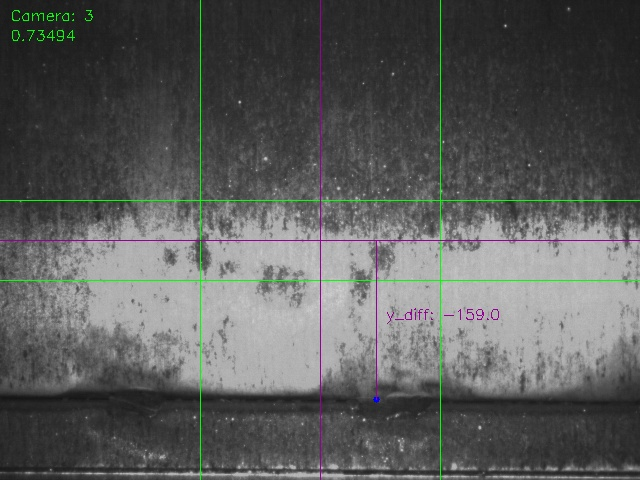
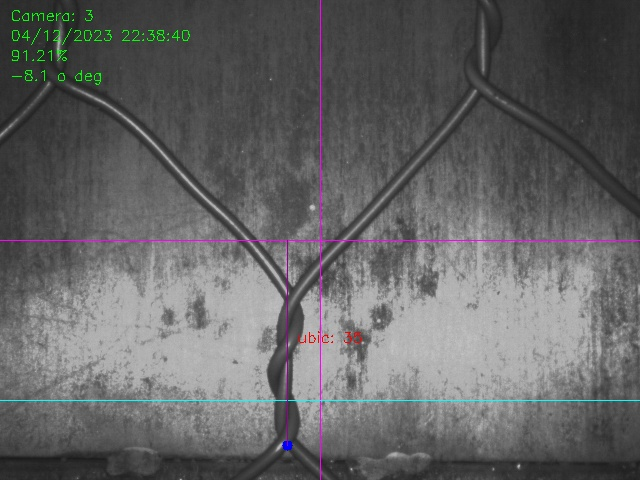
MAtriz de imagenes y simplificacion generacion de imagens

diff --git a/apps/static/assets/js/plc-app.js b/apps/static/assets/js/plc-app.js
@@ -129,6 +129,8 @@ document.addEventListener("DOMContentLoaded", function() {
                 console.log(`Status: ${data.status}`);
                 console.log(`Error: ${data.error}`);
                 console.log(`New Point: ${data.new_point}`);
+                // Navegate through result_cam
+                
             })
             .catch(error => console.error(error));
         });

diff --git a/apps/plc_app.py b/apps/plc_app.py
@@ -25,7 +25,7 @@ class AlambresWebApp:
         # Connection
         try:
             self.connect_cameras()
-            # self.connect_plc()
+            self.connect_plc()
         except RuntimeError as e:
             print("Error: ", e)
 
@@ -112,6 +112,12 @@ class AlambresWebApp:
         
         print(cam_list)
 
+    def eliminar_outliers(self, lista, num_desviaciones=2):
+        media = sum(lista) / len(lista)
+        desviacion_estandar = (sum((x - media) ** 2 for x in lista) / len(lista)) ** 0.5
+        return [x for x in lista if abs(x - media) <= num_desviaciones * desviacion_estandar]
+
+    
     def detection_execution(self, app):
         """Return: {'new_point': new_point, 'error': error_mm, 'imagen': encoded_image}}"""
         # Execute detection
@@ -133,7 +139,7 @@ class AlambresWebApp:
         cameras = self.config[app]['cameras']
         differences = []
         for index in cam_list:
-            print(f"\t-> Camera {index}:")
+            print(f"\t-> Camera {index}:", end=" ")
             name = f"cam{index:02d}"
             # Get the camera dictionarie from the selected app by name
             cam = [cam for cam in cameras if cam['name'] == name][0]
@@ -151,17 +157,17 @@ class AlambresWebApp:
             # Get the result from the result_list by index
             result = result_list[index] 
             if result[0] == 0:
-                if abs(result[1]['y'] - set_point) <= 20:
+                if abs(result[1]['y'] - set_point) <= 25:
                     diff = 0
                     differences.append(diff)
                     continue
                  
                 if result[1]['y'] > set_point:
                     diff = result[1]['y'] - set_point
-                    print(f"\t-> Operation: {diff} = {result[1]['y']} - {set_point}")
+                    print(f"\t\t-> Operation: {diff} = {result[1]['y']} - {set_point}")
                 elif result[1]['y'] < set_point:
                     diff =  result[1]['y'] + self.config[app]['nudo']/self.config['scale']['pix2mm'] - set_point
-                    print(f"\t-> Operation: {diff} = {result[1]['y']} + {self.config[app]['nudo']/self.config['scale']['pix2mm']} - {set_point}")    
+                    print(f"\t\t-> Operation: {diff} = {result[1]['y']} + {self.config[app]['nudo']/self.config['scale']['pix2mm']} - {set_point}")    
                 # Differences
                 result_list[index][1]['diff'] = diff
                 differences.append(diff)
@@ -170,6 +176,9 @@ class AlambresWebApp:
         
 
         # Process differences
+        differences = self.eliminar_outliers(differences)
+        print(f"\t-> Differences out: {differences}")
+        # Calculate error   
         error = sum(differences)/len(differences) if len(differences) > 0 else 0
         error_mm = error * self.config['scale']['pix2mm']
         new_point = self.plc_client.plc_struct['PV_POS'] + error_mm/10
@@ -182,15 +191,12 @@ class AlambresWebApp:
         jpg_images = self.image_manager.proc_image(jpg_images, result_list)
         img_path = os.path.join(os.path.dirname(__file__), r'lib/img')
         self.image_manager.save_images(jpg_images, path=img_path)
-        jpg_images = []
-        for i in range(4):
-            with open(img_path + f"/img_{i}.jpg", "rb") as f:
-                jpg_images.append(f.read())
-
-        image_data = jpg_images[0]
+        self.image_manager.save_image(jpg_images, path=img_path)
+        
+        with open(img_path + f"/all.jpg", "rb") as f:
+            image_data = f.read()
         # Encode image data as base64 string
         encoded_image = base64.b64encode(image_data).decode('utf-8')
-
         print("-> Images captured : DONE")
         
         self.plc_client.cam_states['RUNNING'] = False
@@ -199,7 +205,7 @@ class AlambresWebApp:
 
     def main(self):        
         # Release threads
-        # self.plc_client.start_reading()
+        self.plc_client.start_reading()
         
         self.prev_state = False
         self.plc_client.cam_states['RUNNING'] = False
@@ -221,7 +227,7 @@ class AlambresWebApp:
             if self.plc_client.plc_states["TRIG"] ^ self.prev_state:                
                 # Execute detection
                 # resp = self.detection_execution(self.plc_client.plc_struct['PROD_TYPE']) # returns a dictionarie
-                resp = self.detection_execution(0) # returns a dictionarie
+                resp = self.detection_execution(4) # returns a dictionarie
                 # Send to plc
                 self.plc_client.cam_struct["SP_POS"] = resp['new_point']
                 self.plc_client.cam_struct["SP_VEL"] = 15

diff --git a/apps/lib/image_client.py b/apps/lib/image_client.py
@@ -2,6 +2,7 @@
 import io
 import os
 import cv2
+import numpy as np
 from datetime import datetime
 import matplotlib.image as mpimg
 from collections import namedtuple
@@ -99,8 +100,7 @@ class ImageClient():
             # Get size of images
             img_h, img_w = img_list[i].shape
             img_list[i] = cv2.cvtColor(img_list[i], cv2.COLOR_BGR2RGB)            
-            img = img_list[i].copy()
-            
+            img = img_list[i].copy()            
             
             # Title and current time
             date = datetime.now().strftime("%d/%m/%Y %H:%M:%S")
@@ -114,41 +114,41 @@ class ImageClient():
                 continue
 
             obj = Objeto(int(result_list[i][1]['x']), 
-                         int(img_h - result_list[i][1]['y']), 
+                         int(result_list[i][1]['y']), 
                          int(result_list[i][1]['orientation']),
                          result_list[i][1]['merma'],
-                         result_list[i][1]['set-point'])
+                         result_list[i][1]['set_point'])
             # Print analysis on image
             # dx = img_w/2 - obj.x
             # dy = img_h/2 - obj.y
             dx = obj.x 
-            dy = obj.y
+            dy = img_h - obj.y
             
             # Draw margin lines
-            sp_s = (0, img_h - result_list[i][1]['set-point'])
-            sp_e = (img_w, img_h - result_list[i][1]['set-point'])
+            sp_s = (0, img_h - result_list[i][1]['set_point'])
+            sp_e = (img_w, img_h - result_list[i][1]['set_point'])
 
             ch_s = (0, int(img_h/2))
             ch_e = (img_w, int(img_h/2))
             cv_s = (int(img_w/2), 0)
             cv_e = (int(img_w/2), img_h)
 
-            cv2.circle(img, (obj.x, obj.y), 0, RED, 5)
+            cv2.circle(img, (obj.x, img_h - obj.y), 0, RED, 10)
             
             cv2.line(img, ch_s, ch_e, VIOLET, 1)
             cv2.line(img, cv_s, cv_e, VIOLET, 1)
             cv2.line(img, sp_e, sp_s, YELLOW, 1)
             
             # Draw difference
-            ldy_s = (obj.x, obj.y)
+            ldy_s = (obj.x, img_h - obj.y)
             ldy_e = (obj.x, int(img_h/2))
             cv2.line(img, ldy_s, ldy_e, (150, 0, 150), 1)
-            txt_dy = (obj.x+10, int((obj.y + img_h/2)/2))
-            cv2.putText(img, f"ubic: {dy}", (txt_dy), cv2.FONT_HERSHEY_SIMPLEX, 0.5, VIOLET, 1)
+            txt_dy = (obj.x+10, int((img_h - obj.y + img_h/2)/2))
+            cv2.putText(img, f"ubic: {obj.y}", (txt_dy), cv2.FONT_HERSHEY_SIMPLEX, 0.5, BLUE, 1)
 
             # Draw text from results
-            conf = str(round(result_list[i][1]['confidence'] * 10, 2)) + "%"
-            ori = str(round(result_list[i][1]['ori'], 2))
+            conf = str(round(result_list[i][1]['confidence'] * 100, 2)) + "%"
+            ori = str(round(result_list[i][1]['orientation'], 2)) + " o deg"
             cv2.putText(img, conf, (10, 60), cv2.FONT_HERSHEY_SIMPLEX, 0.5, GREEN, 1)
             cv2.putText(img, ori, (10, 80), cv2.FONT_HERSHEY_SIMPLEX, 0.5, GREEN, 1)
             img_proc_list.append(img)
@@ -157,19 +157,22 @@ class ImageClient():
 
     def save_image(self, img_list, path):
         # order images from the list into matrix
-        self.img_matrix = []
-        for i in range(4):
-            if img_list[i] is None:
-                continue
-            self.img_matrix.append(img_list[i*4:(i+1)*4])
-        # concatenate images in the matrix
-        self.img_concat = []
-        for row in self.img_matrix:
-            self.img_concat.append(cv2.hconcat(row))
-        # concatenate rows
-        self.img_concat = cv2.vconcat(self.img_concat)
+        height, width = 480, 640
+        black_img = np.zeros((height, width, 3), dtype=np.uint8)
+
+        # Reemplaza None con la imagen negra
+        images = [img if img is not None else black_img for img in img_list]
+
+        # Reshape the list to a square matrix
+        n = int(np.ceil(np.sqrt(len(images))))
+        images += [black_img] * (n**2 - len(images))
+        matrix = [images[i*n:(i+1)*n] for i in range(n)]
+
+        # Concatena las imágenes en una matriz cuadrada
+        concat_img = cv2.vconcat([cv2.hconcat(row) for row in matrix])
+
         # save image
-        cv2.imwrite(path, self.img_concat)
+        cv2.imwrite(path + f"/all.jpg", concat_img)
 
     def save_images(self, img_list, path):
         # save images as jpg files in the path

diff --git a/apps/lib/rpc_client.py b/apps/lib/rpc_client.py
@@ -296,6 +296,9 @@ class XmlRpcProxyManager:
         return results
 
     def execute_detection(self, cam_list, tries=2):
+        if len(cam_list) == 0:
+            return [None, None, None, None]
+
         with concurrent.futures.ThreadPoolExecutor(max_workers=len(cam_list)) as executor:
             # cam_list es una lista de indeces de las camaras que se van a usar
             selected_proxies = [self.proxies[cam] for cam in cam_list]
@@ -308,6 +311,9 @@ class XmlRpcProxyManager:
         return results
     
     def get_images(self, cam_list):
+        if len(cam_list) == 0:
+            return [None, None, None, None]
+            
         with concurrent.futures.ThreadPoolExecutor(max_workers=len(cam_list)) as executor:
             # Usar solo los primeros 'cam' proxies
             selected_proxies = [self.proxies[cam] for cam in cam_list]
